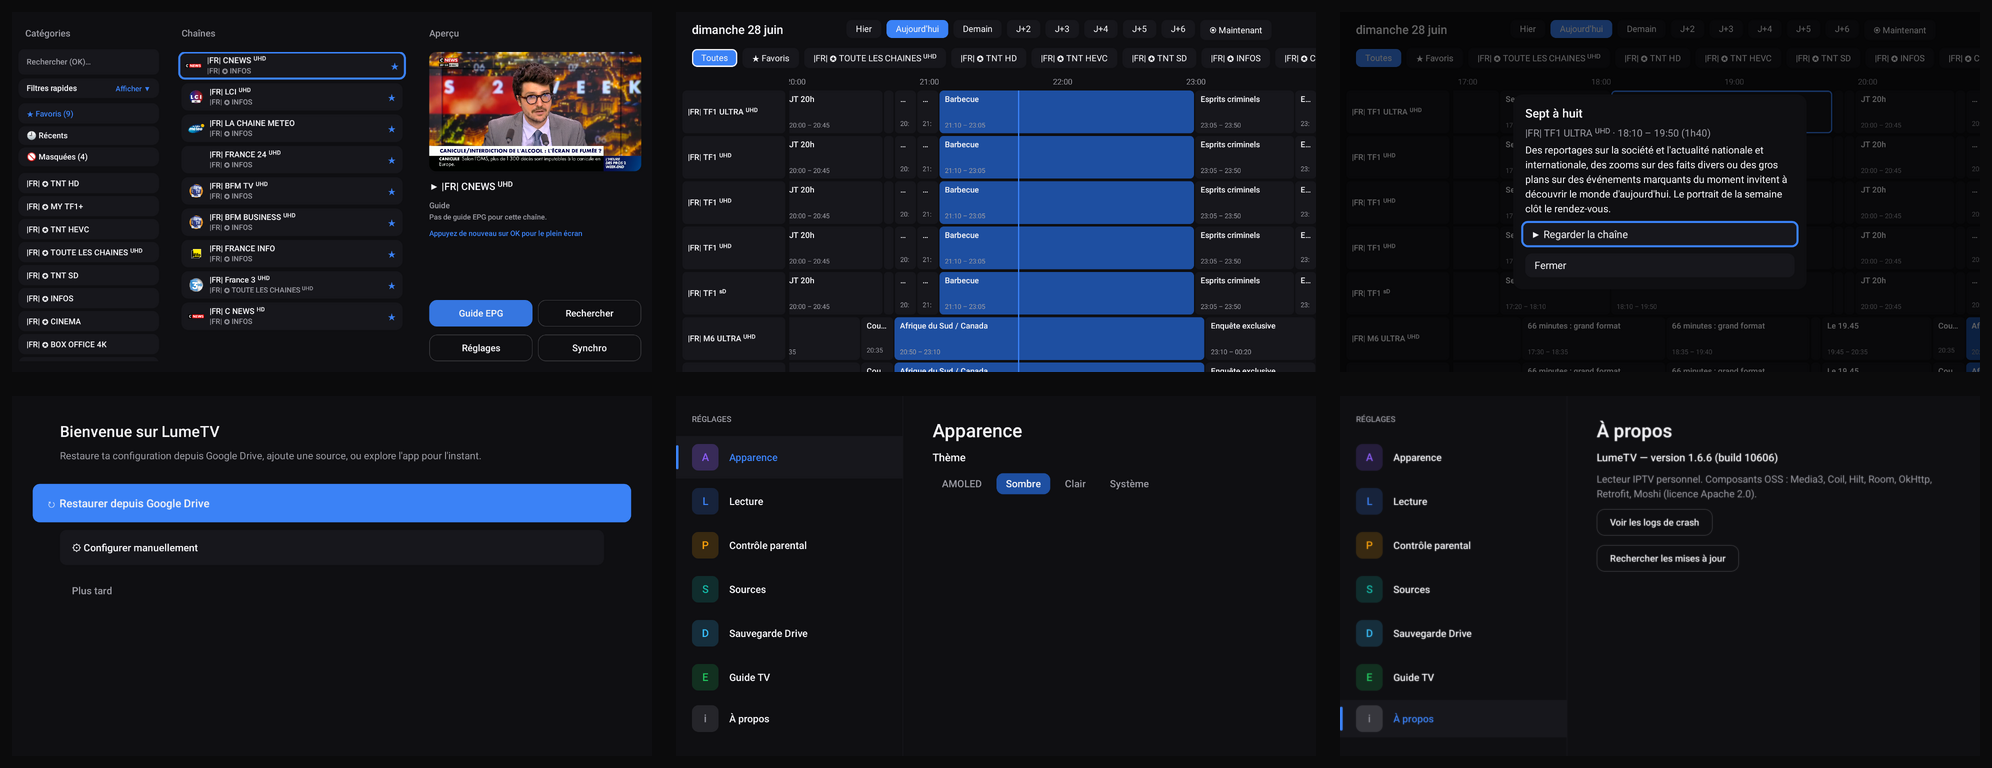
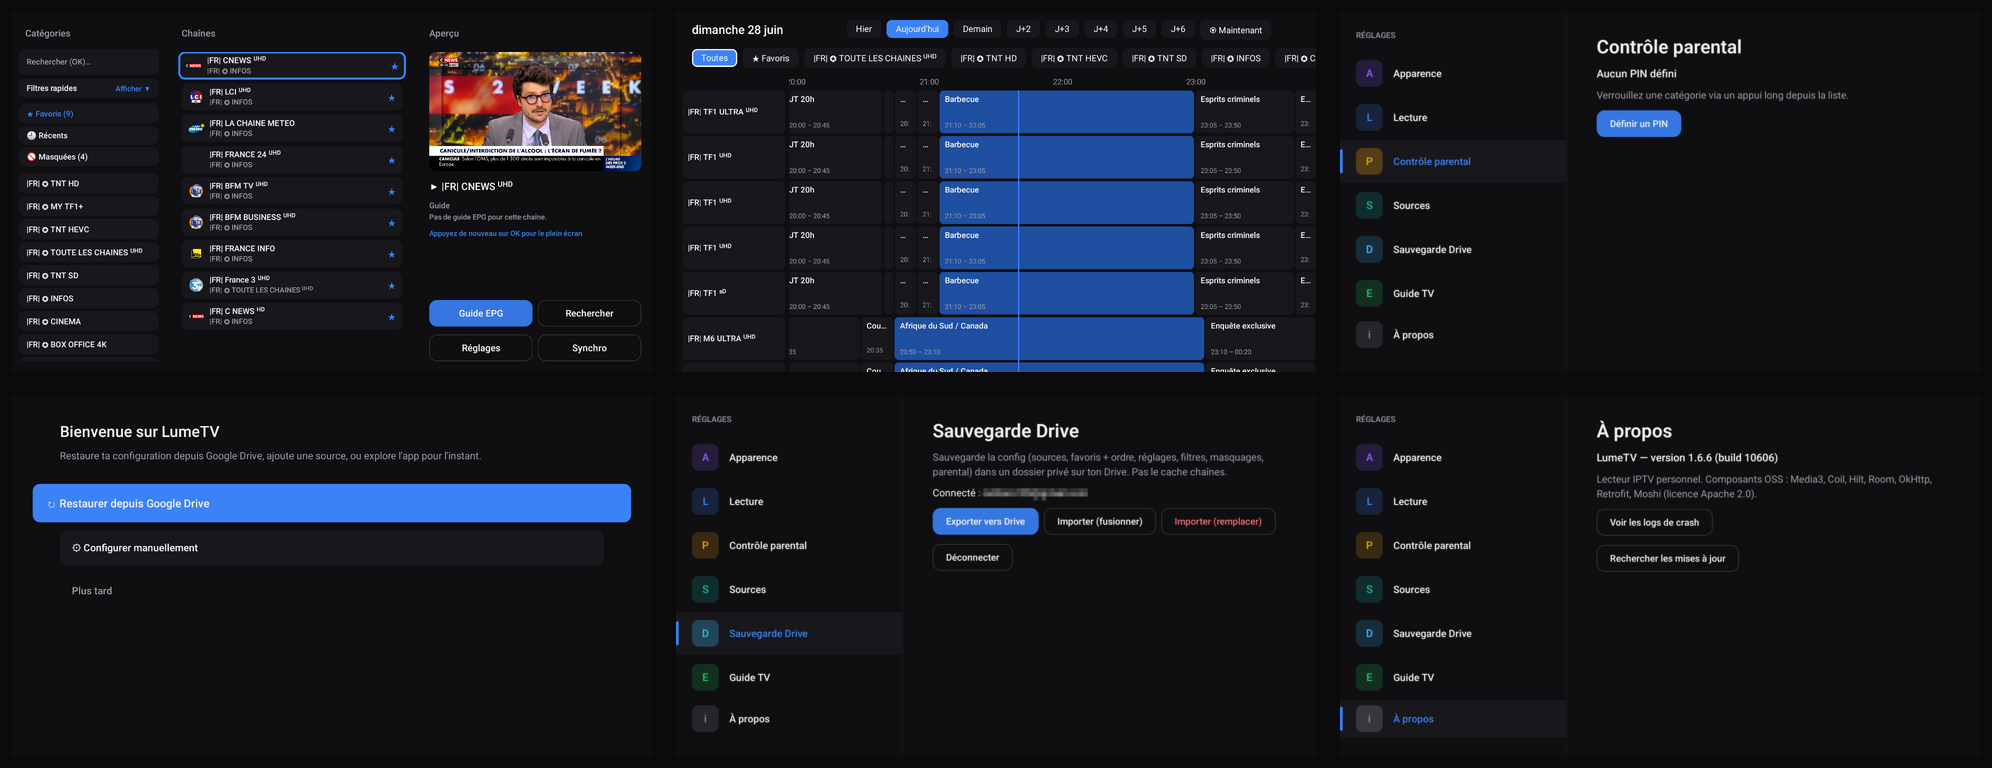
docs: galerie captures dédoublonnée + Contrôle parental & Sauvegarde Drive
Retrait des quasi-doublons (demarrage≈accueil, epg-fiche≈epg,
reglages-Apparence≈apropos). Ajout de deux écrans absents, capturés en
v1.6.6 sur émulateur : Contrôle parental et Sauvegarde Drive (adresse
e-mail pixelisée). Mosaïque recomposée avec les nouvelles tuiles.

diff --git a/README.md b/README.md
@@ -51,32 +51,28 @@ Version actuelle : **1.6.6**.
   </tr>
   <tr>
     <td align="center">
-      <a href="captures/epg-fiche.png"><img src="captures/epg-fiche.png" width="280" alt="Fiche programme"></a><br>
-      <b>Fiche programme</b><br>
-      <sub>Synopsis · horaires · « Regarder »</sub>
-    </td>
-    <td align="center">
       <a href="captures/ajout-source.png"><img src="captures/ajout-source.png" width="280" alt="Ajout d'une source"></a><br>
       <b>Ajouter une source</b><br>
       <sub>URL M3U · Xtream · fichier local</sub>
     </td>
     <td align="center">
-      <a href="captures/reglages.png"><img src="captures/reglages.png" width="280" alt="Réglages"></a><br>
-      <b>Réglages</b><br>
-      <sub>Apparence · lecture · parental · Drive</sub>
+      <a href="captures/controle-parental.png"><img src="captures/controle-parental.png" width="280" alt="Contrôle parental"></a><br>
+      <b>Contrôle parental</b><br>
+      <sub>Code PIN · verrouillage de catégories</sub>
+    </td>
+    <td align="center">
+      <a href="captures/sauvegarde-drive.png"><img src="captures/sauvegarde-drive.png" width="280" alt="Sauvegarde Drive"></a><br>
+      <b>Sauvegarde Drive</b><br>
+      <sub>Exporter / importer la config sur ton Drive</sub>
     </td>
   </tr>
   <tr>
-    <td align="center">
-      <a href="captures/demarrage.png"><img src="captures/demarrage.png" width="280" alt="Sans source"></a><br>
-      <b>Sans source</b><br>
-      <sub>Raccourci pour démarrer</sub>
-    </td>
     <td align="center">
       <a href="captures/apropos.png"><img src="captures/apropos.png" width="280" alt="À propos"></a><br>
       <b>À propos</b><br>
       <sub>Version + mises à jour intégrées</sub>
     </td>
+    <td></td>
     <td></td>
   </tr>
 </table>
